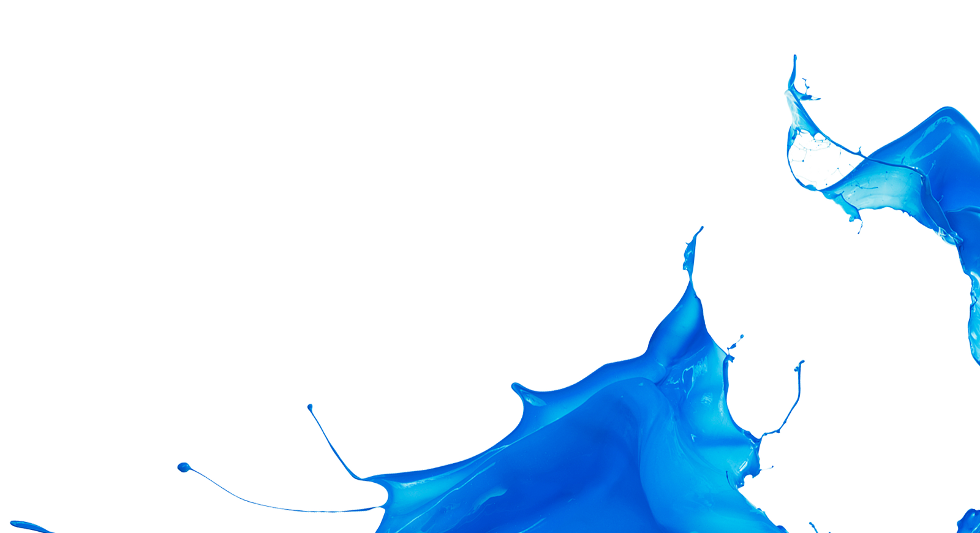
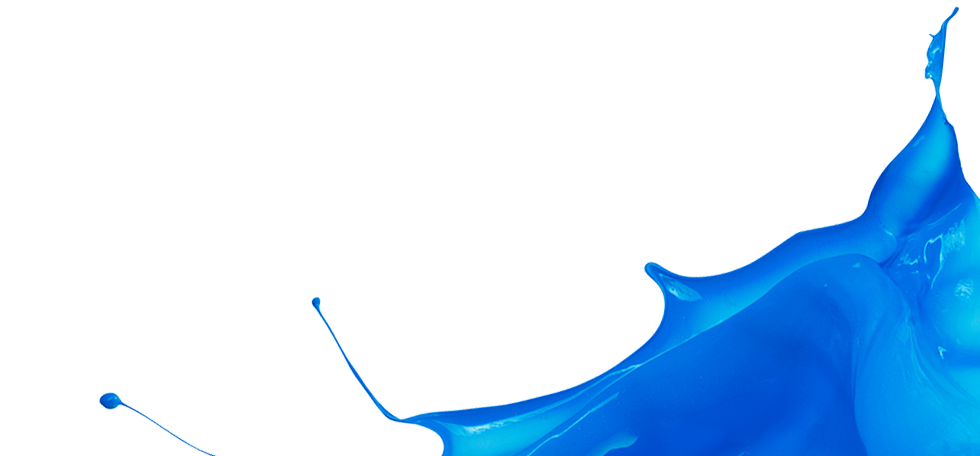
Adding the contacts page.

diff --git a/less/main.less b/less/main.less
@@ -36,6 +36,21 @@ a[name] {
 	position: relative;
 	top: 1px;
 }
+.github-button { background-image: url("../img/github-black.png"); }
+.linkedin-button { background-image: url("../img/linkedin-black.png"); }
+.twitter-button { background-image: url("../img/twitter-black.png"); }
+.social-button {
+	min-height: 28px;
+	padding-left: 28px;
+	background-repeat: no-repeat;
+}
+h1, h2, .h2, h3 {
+	&> a, &> a:active, &> a:hover, &> a:visited {
+		text-decoration: none;
+		color: #333333;
+		font-weight: normal;
+	}
+}
 /* /GENERAL */
 
 /* NAVIGATION */
@@ -85,8 +100,6 @@ a[name] {
 		padding: 0px;
 		.social-button {
 			float: right;
-			height: 28px;
-			width: 28px;
 			display: inline-block;
 			margin-left: 6px;
 		}
@@ -155,9 +168,9 @@ a[name] {
 		a:focus {
 			color: #404040 !important;
 		}
-		#github-button { background-image: url("../img/github-black.png"); }
-		#linkedin-button { background-image: url("../img/linkedin-black.png"); }
-		#twitter-button { background-image: url("../img/twitter-black.png"); }
+		.github-button { background-image: url("../img/github-black.png"); }
+		.linkedin-button { background-image: url("../img/linkedin-black.png"); }
+		.twitter-button { background-image: url("../img/twitter-black.png"); }
 	}
 
 	&.blue {
@@ -184,9 +197,9 @@ a[name] {
 		a:focus {
 			color: white !important;
 		}
-		#github-button { background-image: url("../img/github-white.png"); }
-		#linkedin-button { background-image: url("../img/linkedin-white.png"); }
-		#twitter-button { background-image: url("../img/twitter-white.png"); }
+		.github-button { background-image: url("../img/github-white.png"); }
+		.linkedin-button { background-image: url("../img/linkedin-white.png"); }
+		.twitter-button { background-image: url("../img/twitter-white.png"); }
 	}
 }
 
@@ -201,6 +214,7 @@ a[name] {
 	}
 	h1,
 	h2,
+	.h2,
 	h3 {
 		margin-left: 5%;
 		margin-right: 5%;
@@ -216,7 +230,7 @@ a[name] {
 		margin-bottom: 0.5em;
 	}
 
-	h2 {
+	h2, .h2 {
 		font-family: 'DIN Light', sans-serif;
 		font-style: italic;
 		font-size: 20pt;
@@ -249,58 +263,25 @@ a[name] {
 	background-size: 100% auto;
 	background-position: 50% 0px;
 
-	h1, h2 {
-		margin-left: 20%;
-		margin-right: 20%;
-	}
-
 	/* Portrait tablet to landscape and desktop */
-	@media (max-width: 1199px) {
-		background-size: 120%;
-		h1 {
-			margin-bottom: 0.1em;
-		}
-		h1, h2 {
-			margin-left: 10%;
-			margin-right: 10%;
-		}
+	@media (min-width: 1199px) {
+		background-size: 110% auto;
+		background-position: 100% -100px;
+	}
+	@media (max-width: 980px) {
+		background-position: 50% -15px;
+		background-size: auto;
 	}
 
 	/* Portrait tablet to landscape and desktop */
 	@media (min-width: 768px) and (max-width: 979px) {
-		background-position: 50% -100px;
-		h1 {
-			font-size: 58pt;
-		}
 	}
 
 	/* Landscape phone to portrait tablet */
 	@media (max-width: 767px) {
-		background-position: 70% 0px;
-		h1 {
-			font-size: 48pt;
-			max-width: 60%;
-		}
-		h1, h2 {
-			margin-left: 12%;
-			margin-right: 20%;
-		}
 	}
 
 	@media (max-width: 480px) {
-		background-size: 200%;
-		background-position: 40% -10px;
-		h1 {
-			font-size: 36pt;
-			max-width: 60%;
-		}
-		h2 {			
-			font-size: 16pt;
-		}
-		h1, h2 {
-			margin-left: 12%;
-			margin-right: 20%;
-		}
 	}
 
 	color: white;
@@ -328,7 +309,7 @@ a[name] {
 	.row-of-icons span {
 		padding-top: 1em;
 		font-family: 'DIN Light', sans-serif;
-		font-size: 23pt;
+		font-size: 20pt;
 		clear: left;
 		margin: 0px;
 		display: block;
@@ -355,10 +336,13 @@ a[name] {
 		.row-of-icons .understandable-icon img,
 		.row-of-icons .practical-icon img,
 		.row-of-icons .valuable-icon img {
-			margin: 1em 0;
+			margin: 1em;
+		}
+		.row-of-icons span {
+			padding-top: 0px;
 		}
 		.row-of-icons .plus-icon img {
-			margin: 30px 0;
+			margin: 2em 0;
 		}
 	}
 }
@@ -384,7 +368,7 @@ a[name] {
 	}
 }
 
-/* PAGE #3 */
+/* PAGE #4 */
 .page#page4 {
 	@media (min-width: 981px) {
 		background-image: url("../img/backgrounds/page4-1600.png");
@@ -399,6 +383,27 @@ a[name] {
 	background-position: 50% -20px;
 	background-size: 120%;
 	color: white;
+
+	h2 {
+		margin-bottom: 1em;
+	}
+}
+
+/* PAGE #5 */
+.page#page5 {
+	@media (min-width: 981px) {
+		background-image: url("../img/backgrounds/page5-1600.png");
+	}
+	@media (max-width: 980px) {
+		background-image: url("../img/backgrounds/page5-980.png");
+	}
+	background-color: #FFFFFF;
+	/* TODO: Remember to use a low-res when the screen is narrow */
+	background-repeat: no-repeat;
+	background-attachment: absolute;
+	background-position: 50% bottom;
+	background-size: auto;
+	color: black;
 
 	h2 {
 		margin-bottom: 1em;

diff --git a/index.html b/index.html
@@ -41,9 +41,9 @@
 				<div class="container">
 					<a class="brand" href="#" title="BIT BLUEPRINT"></a>
 					<div class="social">
-						<a class="social-button" id="github-button" href="https://github.com/bitblueprint" target="_blank" title="Github"></a>
-						<a class="social-button" id="linkedin-button" href="https://www.linkedin.com/company/bit-blueprint/" target="_blank" title="LinkedIn"></a>
-						<a class="social-button" id="twitter-button" href="https://twitter.com/bitblueprint" target="_blank" title="Twitter"></a>
+						<a class="social-button github-button" href="https://github.com/bitblueprint" target="_blank" title="Github"></a>
+						<a class="social-button linkedin-button" href="https://www.linkedin.com/company/bit-blueprint/" target="_blank" title="LinkedIn"></a>
+						<a class="social-button twitter-button" href="https://twitter.com/bitblueprint" target="_blank" title="Twitter"></a>
 					</div>
 					<ul class="nav">
 						<li><a href="#purpose">Purpose</a></li>
@@ -57,8 +57,8 @@
 			<a name="" data-navbar-color="white"></a>
 			<div class="container">
 
-				<h1>Embrace Openness</h1>
-				<h2>Your organization will, almost always, benefit from it</h2>
+				<h1>Embrace openness</h1>
+				<h2>Your organization will, almost always, benefit from it.</h2>
 
 			</div> <!-- /container -->
 		</div> <!-- /page -->
@@ -69,7 +69,8 @@
 
 				<h1>Hello!</h1>
 				<h2>We're BIT BLUEPRINT, a leading consultancy in open disciplines.</h2>
-				<h2>Our purpose is to create value by professionally crafting action-oriented open strategies as well as creating and implementing open technical solutions of the highest quality. We make the use of openness</h2>
+				<h2>Our purpose is to create value by professionally crafting action-oriented open strategies as well as creating and implementing open technical solutions of the highest quality.</h2>
+				<h2>We make the use of openness:</h2>
 				<div class="row-fluid row-of-icons">
 					<div class="span3 offset-one-half understandable-icon">
 						<img src="img/icons/bulb.png" />
@@ -98,20 +99,39 @@
 			<a name="reference/dr" data-navbar-color="black"></a>
 			<div class="container">
 				<h1>The value we have created is not to be mistaken!</h1>
-				<h2>"In a rapidly changing IT time, have BIT BLUEPRINT shown their strength by being competent, agile, professional and on time. BIT BLUEPRINT has enabled innovative IT projects in DR, which otherwise would have been difficult to succeed without their participation."</h2>
+				<h2>"In a rapidly changing IT time, BIT BLUEPRINT have shown their strength by being competent, agile, professional and on time. BIT BLUEPRINT has enabled innovative IT projects in DR, which otherwise would have been difficult to succeed without their participation."</h2>
 				<h2 style="float:right;">Ivan Dehn, Head of Innovation, DR Technology Department</h2>
 
 			</div> <!-- /container -->
 		</div> <!-- /page -->
-
+		<!--
 		<div class="page" id="page4">
 			<a name="reference/kb" data-navbar-color="marine"></a>
 			<div class="container">
 				<h2>"In a rapidly changing IT time, have BIT BLUEPRINT shown their strength by being competent, agile, professional and on time. BIT BLUEPRINT has enabled innovative IT projects in DR, which otherwise would have been difficult to succeed without their participation."</h2>
 				<h2 style="float:right;">...</h2>
 
-			</div> <!-- /container -->
+			</div>
 		</div> <!-- /page -->
+		
+		<div class="page" id="page5">
+			<a name="contact" data-navbar-color="white"></a>
+			<div class="container">
+				<h1>Curious? Say hello!</h1>
+				<div class="h2">
+					BIT BLUEPRINT ApS<br/>
+					Frederiksborggade 15, 2nd Floor<br/>
+					1360 Copenhagen<br/>
+					Denmark<br/>
+					VAT/CVR: <a href="http://cvr.dk/Site/Forms/CompanySearch/CompanySearch.aspx?navn=bit%20blueprint%20aps" target="_blank">35258027</a><br/><br/>
+					+45 41 42 72 08<br/>
+					<a href="mailto:hello@bitblueprint.com?subject=Hello!" target="_blank">hello@bitblueprint.com</a><br/><br/>
+					<a class="social-button twitter-button" href="https://twitter.com/BITBLUEPRINT" target="_blank" title="Twitter">&nbsp;@BITBLUEPRINT</a><br/>
+					<a class="social-button linkedin-button" href="https://www.linkedin.com/company/bit-blueprint/" target="_blank" title="LinkedIn">&nbsp;BIT BLUEPRINT</a><br/>
+					<a class="social-button github-button" href="https://github.com/bitblueprint" target="_blank" title="Github">&nbsp;BIT BLUEPRINT</a><br/>
+				</div>
+			</div>
+		</div>
 
 		<!-- Le javascript
 		================================================== -->

diff --git a/js/main.js b/js/main.js
@@ -9,7 +9,7 @@
 		var hash = $(e.target).attr("href");
 		if(!hash) hash = "";
 		hash = hash.substring(1);
-		$.scrollTo("a[name='"+ hash +"']", 300, {offset: {top: 0}});
+		$.scrollTo("a[name='"+ hash +"']", 300, {offset: {top: -1}});
 	});
 
 	function updatePage() {
